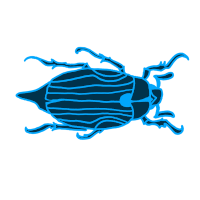
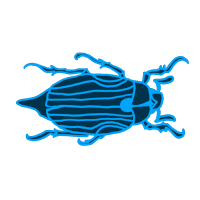
animation fix

Changed region(s): [[0.06, 0.21, 0.96, 0.75]]

diff --git a/blog/static/js/script.js b/blog/static/js/script.js
@@ -237,8 +237,8 @@ let bug4 = [new Image(), new Image(), new Image()];
 let border_repulsion_margin;
 let bug_density = 5;
 let scale;
-let scaling_factor = 50;
-let lin_scaling_factor = 3000;
+let scaling_factor = 3;
+let lin_scaling_factor = 50;
 let max_bug_count;
 let extra_bug_count = 0;
 let extra_bug_dying = 0;
